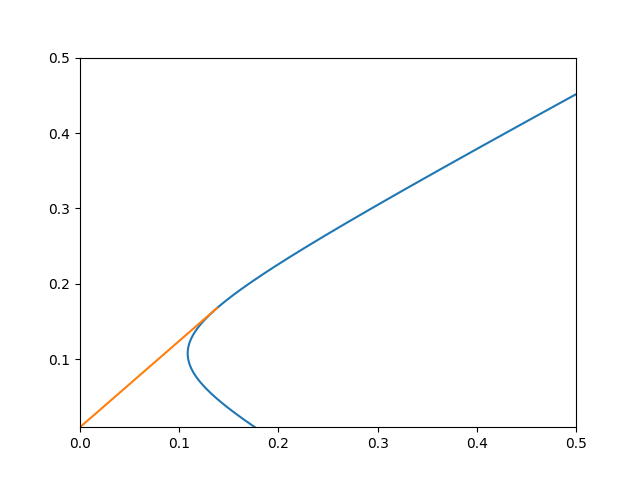
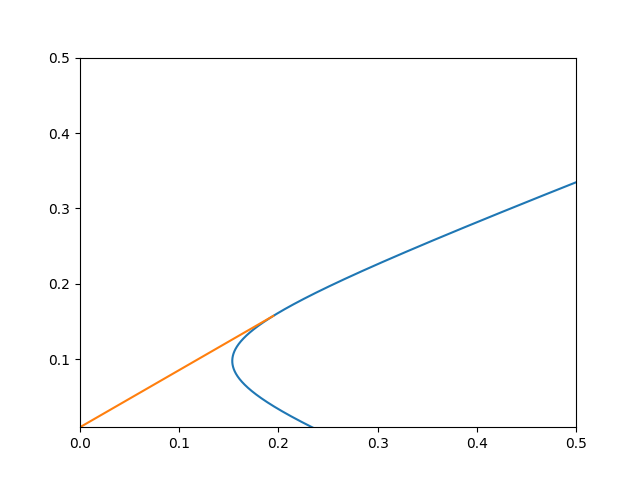
Modify the error or the calculation of Sharpe Ratio

diff --git a/effective frontier/effective_frontier.py b/effective frontier/effective_frontier.py
@@ -27,7 +27,7 @@ with open('Industry8_data_original.csv','r') as f:
 	#create the return vector
 	tempList=[]
 	for i in range(0,8):
-		tempList.append(np.mean(dataMatrix[i])*12+0.01)
+		tempList.append(np.average(dataMatrix[i])*12)
 	muMatrix=np.mat(tempList).T
 	
 	#create the variance matrix
@@ -39,10 +39,10 @@ with open('Industry8_data_original.csv','r') as f:
 	oneMatrix=np.mat([[1],[1],[1],[1],[1],[1],[1],[1]])
 	#calculate the transpose of it to save time
 	troneMatrix=oneMatrix.T
-	
+
 	#create the omega1 and omegaR matrix
-	omega1=invarMatrix*muMatrix/float(troneMatrix*invarMatrix*muMatrix)
-	omegaR=invarMatrix*oneMatrix/float(troneMatrix*invarMatrix*oneMatrix)
+	omegaR=invarMatrix*muMatrix/float(troneMatrix*invarMatrix*muMatrix)
+	omega1=invarMatrix*oneMatrix/float(troneMatrix*invarMatrix*oneMatrix)
 
 	#calculate the mean of omega1 and omegaR
 	mu1=float(omega1.T*muMatrix)
@@ -55,16 +55,16 @@ with open('Industry8_data_original.csv','r') as f:
 	bestOmega=np.mat([[0],[0],[0],[0],[0],[0],[0],[1]])
 	bestMu=0
 
-	for i in range(1,501):
-		mu=0+float(i)/1000
+	for i in range(1,20001):
+		mu=0+float(i)/10000
 		muList.append(mu)
 		alpha=(mu-mu1)/(muR-mu1)
 		omegaStar=alpha*omegaR+(1-alpha)*omega1
-		varStar=float(0.5*omegaStar.T*varMatrix*omegaStar)
+		varStar=float(omegaStar.T*varMatrix*omegaStar)
 		stdStar=np.sqrt(varStar)
 		stdList.append(stdStar)
 
-		sharpeStar=(mu-0.01)/stdStar
+		sharpeStar=mu/stdStar
 		if sharpeStar>bestSharpe:
 			bestSharpe=sharpeStar
 			bestOmega=omegaStar
@@ -82,6 +82,5 @@ with open('Industry8_data_original.csv','r') as f:
 
 	print(bestSharpe)
 	print(bestOmega)
-	
 
 

diff --git a/effective frontier/effective_frontier_before_crisis.py b/effective frontier/effective_frontier_before_crisis.py
@@ -27,7 +27,7 @@ with open('Industry8_data_original.csv','r') as f:
 	#create the return vector
 	tempList=[]
 	for i in range(0,8):
-		tempList.append(np.mean(dataMatrix[i])*12+0.01)
+		tempList.append(np.average(dataMatrix[i])*12)
 	muMatrix=np.mat(tempList).T
 	
 	#create the variance matrix
@@ -41,8 +41,8 @@ with open('Industry8_data_original.csv','r') as f:
 	troneMatrix=oneMatrix.T
 	
 	#create the omega1 and omegaR matrix
-	omega1=invarMatrix*muMatrix/float(troneMatrix*invarMatrix*muMatrix)
-	omegaR=invarMatrix*oneMatrix/float(troneMatrix*invarMatrix*oneMatrix)
+	omegaR=invarMatrix*muMatrix/float(troneMatrix*invarMatrix*muMatrix)
+	omega1=invarMatrix*oneMatrix/float(troneMatrix*invarMatrix*oneMatrix)
 
 	#calculate the mean of omega1 and omegaR
 	mu1=float(omega1.T*muMatrix)
@@ -55,16 +55,16 @@ with open('Industry8_data_original.csv','r') as f:
 	bestOmega=np.mat([[0],[0],[0],[0],[0],[0],[0],[1]])
 	bestMu=0
 
-	for i in range(1,501):
+	for i in range(1,2001):
 		mu=0+float(i)/1000
 		muList.append(mu)
 		alpha=(mu-mu1)/(muR-mu1)
 		omegaStar=alpha*omegaR+(1-alpha)*omega1
-		varStar=float(0.5*omegaStar.T*varMatrix*omegaStar)
+		varStar=float(omegaStar.T*varMatrix*omegaStar)
 		stdStar=np.sqrt(varStar)
 		stdList.append(stdStar)
 
-		sharpeStar=(mu-0.01)/stdStar
+		sharpeStar=mu/stdStar
 		if sharpeStar>bestSharpe:
 			bestSharpe=sharpeStar
 			bestOmega=omegaStar
